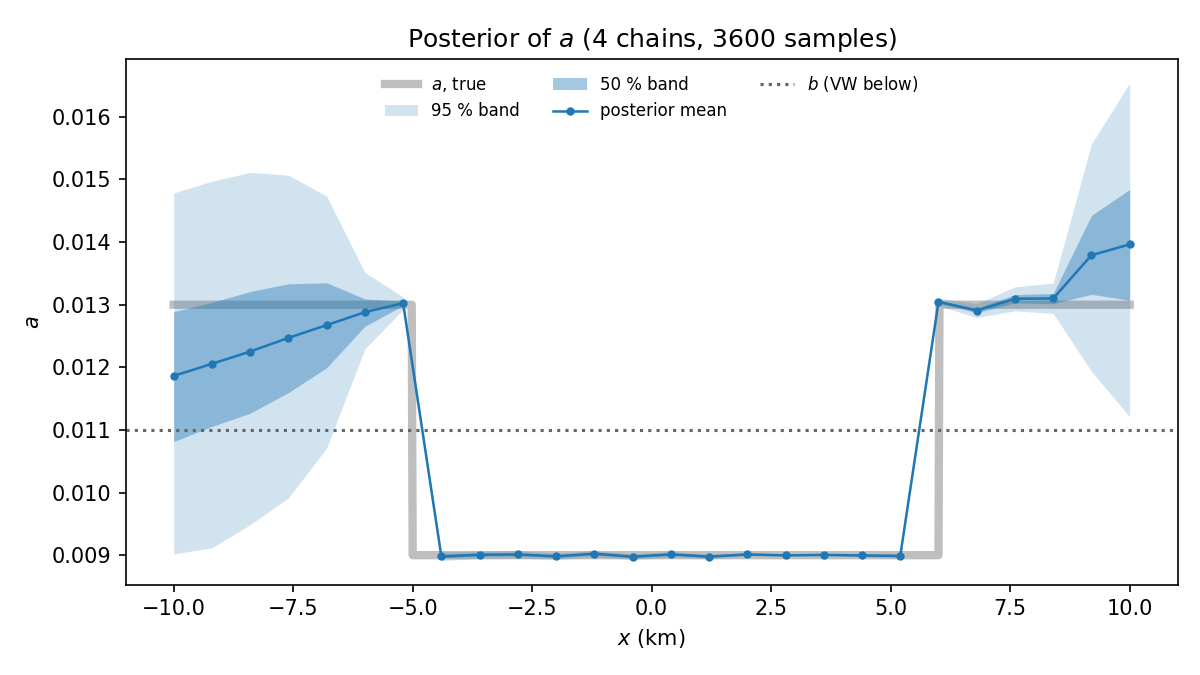
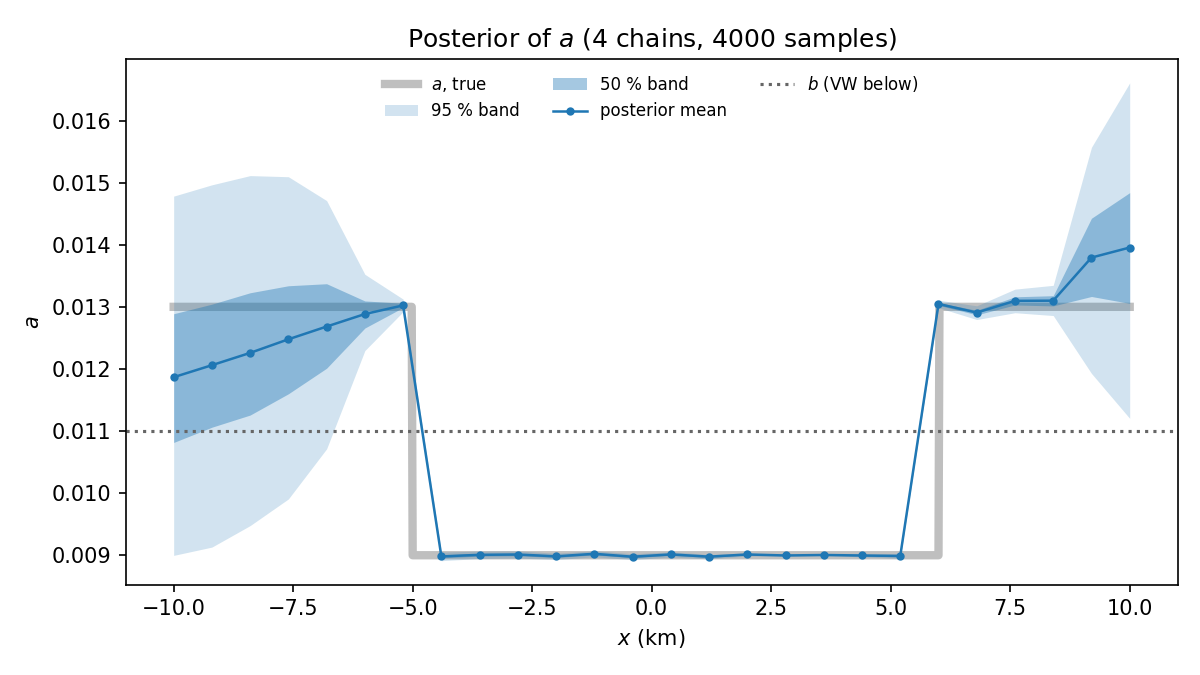
Work on diagnostics

diff --git a/bayes/python/diagnostic.py b/bayes/python/diagnostic.py
@@ -19,6 +19,7 @@ from scipy.io import loadmat
 sys.path.insert(0, os.path.join(os.path.dirname(__file__), "..", "..", "context", "bayes",
                                 "Computational-and-Bayesian-inverse-problems-code", "course_code"))
 from samplers import ess, rank_rhat
+import fault
 
 # First, plot QOI (a(x)) against iterations for each chain
 def load_chains(pattern): # e.g. pattern is hpcn_m36_eta0.02_s1_laplace_seed*.mat
@@ -45,29 +46,6 @@ def main(pattern, burn_in=None):
     # print(U)
     # print(acc)
     # print(n_adapt)
-
-    """ Trace plots and burn-in """
-    # With Laplace preconditoning, no burn-in is seen. Need to have step-size s high enough for burn-in
-    plt.figure()
-    for i, r in enumerate(runs):
-        print(f"Chain {i+1}: {r['chain'].a.shape[1]} iterations, acceptance rate {np.round(r['chain'].accepted.mean(), 2)}")
-
-        sample_size = r['chain'].a.shape[1]
-        a_index = 13
-        a_values = A[i,:,a_index]
-        plt.plot([s for s in range(a_values.size)], a_values)
-        # for j in range(r['chain'].a.shape[1]):
-        #     print(A[i, j, 10])
-    plt.figure()
-    for i, r in enumerate(runs):
-        sample_size = r['chain'].a.shape[1]
-        U_values = U[i,:]
-        plt.plot([s for s in range(U_values.size)], U_values)
-
-    plt.show()
-
-    # NOTE: If burn_in is seen, we need to add something like
-    # burn_in = max(n_adapt, N // 10) or manually
 
     """ Autocorrelation time (can be derived from ESS) """
     # ESS, autocorrelation and Rhat at every node AND for U
@@ -104,6 +82,53 @@ def main(pattern, burn_in=None):
         laplace = (a_map, std_lap)
         print(f"vs Laplace: |mean - a_MAP|/std max {np.max(np.abs(mean - a_map) / std):.2f}, "
                 f"std/std_Laplace in [{np.min(std / std_lap):.3f}, {np.max(std / std_lap):.3f}]")
+
+    # Now, plotting!
+    """ 1. Trace plots and burn-in. Traces of U and of the slowest node """
+    # With Laplace preconditoning, no burn-in is seen. Need to have step-size s high enough for burn-in
+    # NOTE: If burn_in is seen, we need to add something like
+    # burn_in = max(n_adapt, N // 10) or manually
+    worst_a_index = ess_a.argmin()
+    plt.figure()
+    for i, r in enumerate(runs):
+        print(f"Chain {i+1}: {r['chain'].a.shape[1]} iterations, acceptance rate {np.round(r['chain'].accepted.mean(), 2)}")
+        a_values = A[i,:,worst_a_index]
+        plt.plot([s for s in range(a_values.size)], a_values, label=f"Chain {i+1}")
+        plt.xlabel("iteration")
+        plt.ylabel(f"$a$ at node {worst_a_index + 1}")
+    plt.legend()
+    plt.show()
+
+    plt.figure()
+    for i, r in enumerate(runs):
+        U_values = U[i,:]
+        plt.plot([s for s in range(U_values.size)], U_values, label=f"Chain {i+1}")
+        plt.xlabel("iteration")
+        plt.ylabel("$U$")
+    plt.legend()
+    plt.show()
+
+    """ 2. Posterior of a with 50 % and 95 % bands, on top of the true a(x) """
+    x, xx = fault.x, np.linspace(fault.X_MIN, fault.X_MAX, 1001)
+    lo50, hi50 = np.percentile(samples, [25, 75], axis=0)
+    fig, ax = plt.subplots(figsize=(8, 4.5))
+    ax.plot(xx, fault.a_true(xx), color="0.75", lw=4, label="$a$, true", zorder=0)
+    ax.fill_between(x, lo, hi, color="C0", alpha=0.2, lw=0, label="95 % band")
+    ax.fill_between(x, lo50, hi50, color="C0", alpha=0.4, lw=0, label="50 % band")
+    ax.plot(x, mean, ".-", color="C0", lw=1.2, label="posterior mean")
+    ax.axhline(fault.B, color="0.4", ls=":", label="$b$ (VW below)")
+    ax.set(xlabel="$x$ (km)", ylabel="$a$", title=f"Posterior of $a$ ({C} chains, {len(samples)} samples)")
+    ax.legend(frameon=False, fontsize=8, loc="upper center", ncol=3)
+    fig.tight_layout()
+
+    out_dir = os.path.join(os.path.dirname(files[0]), "figures")
+    os.makedirs(out_dir, exist_ok=True)
+    name = os.path.basename(files[0]).replace("_seed1.mat", "").replace(".mat", "")
+    out = os.path.join(out_dir, f"posterior_a_{name}.png")
+    fig.savefig(out, dpi=150)
+    print(f"Saved {out}")
+    plt.show()
+
 
 if __name__ == "__main__":
     try:

diff --git a/adjoint_rate_state_inversion/direct_effect_inverse_crime_plot.m b/adjoint_rate_state_inversion/direct_effect_inverse_crime_plot.m
@@ -5,9 +5,11 @@ addSubpaths;
 % resultsDir = fullfile('optimizer_benchmark', 'results');
 resultsDir = fullfile('mat', 'inversion');
 resultFiles = {'rough_newton-tr_maxiter150_m36_mp26_velocity_synth_eta002_vals_a00135_tikhonov-grad_beta3e+00_anchor.mat';
-               'rough_lbfgs_maxiter200_m36_mp26_velocity_synth_eta002_vals_a00135_tikhonov-grad_beta3e+00_anchor.mat',
-               'rough_lbfgs_maxiter200_m36_mp26_velocity_synth_eta002_vals_a00135.mat',
-               'rough_lbfgs_maxiter200_m36_mp26_velocity_synth_vals_a00135_2.mat'};
+               'rough_lbfgs_maxiter200_m36_mp26_velocity_synth_eta002_vals_a00135_tikhonov-grad_beta3e+00_anchor.mat';
+               'rough_lbfgs_maxiter200_m36_mp26_velocity_synth_eta002_vals_a00135.mat';
+               'rough_lbfgs_maxiter200_m36_mp26_velocity_synth_vals_a00135_2.mat';
+               'rough_newton-tr_maxiter150_m36_mp26_velocity_synth_eta002_vals_a00135_tv_beta4e-03_eps1e-04.mat';
+               'rough_lbfgs_maxiter200_m36_mp26_velocity_synth_eta002_vals_a00135_tv_beta4e-03_eps1e-04.mat'};
 % resultFiles = {'res_newton_tr_repo_m251.mat'; 'res_fmincon_ip_lbfgs_nolb_m251.mat'};
 iter = []; % Iteration to plot, [] for the final iteration of each file
 assetsDir = 'assets/bayes';

diff --git a/context/bayes/highres_todo.md b/context/bayes/highres_todo.md
@@ -3,13 +3,13 @@
 Posterior for the noisy m = 1001 data, solved on m = 151, m_p = 26, with H-pCN, H-MALA and H-HMC.
 
 ## Before the cluster
-- [ ] Commit and push `bayes/run_highres_{mala,hmc}.m`, `scripts/highres_{mala,hmc}.sh` and the updated `scripts/highres_submit.sh`.
+- [x] Commit and push `bayes/run_highres_{mala,hmc}.m`, `scripts/highres_{mala,hmc}.sh` and the updated `scripts/highres_submit.sh`.
 
 ## On the cluster
-- [ ] `git pull`.
-- [ ] Copy `adjoint_rate_state_inversion/mat/fractal_fault_m1001_mp1001/` with `rsync`. It is gitignored and needs `receiverData.mat` and `receiverData_noisy_eta0.02.mat`.
-- [ ] Optional smoke test: run `matlab -batch "maxIter=2; run_highres_map"` interactively to catch path or data errors.
-- [ ] From `scripts/`, run `./highres_submit.sh`. It queues the MAP job, then 4 chains each of H-pCN, H-MALA and H-HMC once the MAP job succeeds.
+- [x] `git pull`.
+- [x] Copy `adjoint_rate_state_inversion/mat/fractal_fault_m1001_mp1001/` with `rsync`. It is gitignored and needs `receiverData.mat` and `receiverData_noisy_eta0.02.mat`.
+- [x] Optional smoke test: run `matlab -batch "maxIter=2; run_highres_map"` interactively to catch path or data errors.
+- [x] From `scripts/`, run `./highres_submit.sh`. It queues the MAP job, then 4 chains each of H-pCN, H-MALA and H-HMC once the MAP job succeeds.
 - [ ] Check `highres_map_*.out`. The inflation should converge and the Hessian should be positive definite. Otherwise:
   - resubmit with `sbatch --export=ALL,RESUME=true highres_map.sh`
   - cancel the waiting chain jobs, which will never start because their dependency failed

diff --git a/context/bayes/cleaned_plan.md b/context/bayes/cleaned_plan.md
@@ -23,6 +23,22 @@ This is a more fair comparison compare to noise-free inversion.
 1) Mean with 95% bands, compare against a_true
 2) P(a(x) < b) per node
 3) VW edge positions
+- [ ] Missing diagnostic.py plots (Remark 4.21):
+1) Posterior std vs Laplace std per node (see diagnostic_reference.py)
+2) a_MAP and a few samples on the posterior plot
+3) Histogram of VW edge positions / VW extent
+- [ ] diagnostic.py fixes:
+1) Cost from chain.nFwd + chain.nAdj, not C*N (HMC undercounted 10x); print chain.time
+2) Actually apply burn_in
+3) Check hpCN starts are dispersed (widened Laplace), else Rhat is meaningless
+- [ ] Verification (Sec. 4.6):
+1) Compare pCN/MALA/HMC/hpCN mean and std within MC errors
+2) Fixed-truth coverage also tests the prior (a_true not drawn from prior); full coverage out of scope, say so
+- [ ] Report (template):
+1) Dependence on noise level eta and prior gamma
+2) Table: rel. error, coverage, wall-clock for det., MAP, posterior mean
+3) 95 % bands need ESS of a few thousand, not 400
+- Hierarchical prior: use prior normalization (Remark 4.15) against the funnel, expect high Rhat at jumps
 
 [x] Implement low rank laplace approximation from Hv products
 [x] Center the Laplace approximation on the converged MAP (as in the course, Sec. 5.2): replace the
